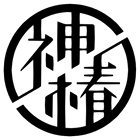
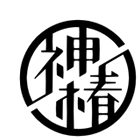
vwp

diff --git a/game/update.js b/game/update.js
@@ -2,7 +2,7 @@ window.noname_update={
 	version:'1.9.101.77',
 	update:'1.9.100.113.6',
 	changeLog:[
-		'101.76小更新：新增角色可不Kafu（测试包）、海向晚（化鲸包），修复bug（比如阿喵喵的bug和Yomemi致命药剂无法弃牌bug）',
+		'101.77小更新：新增势力神椿、新增角色可不Kafu（测试包）、海向晚（化鲸包），修复bug（比如阿喵喵的bug和Yomemi致命药剂无法弃牌bug）',
 		'优化技能特性，斗地主奖池扩展（虹：阿喵喵、初心相羽初叶；杏：猫又小粥、初心大空昴；企：花谱、理芽；社：Menherachan、紫海由爱），继续完善了国战内容（增加野心家内容、神乐mea势力改为“野”，现在可以进入该模式测试了）',
 		'101.40大更新：《化鲸篇》追加扩展包，增加角色皇绊爱和皇兔田佩克拉（emperor包），张京华、冰糖和真白花音（小箱），AS全员补全，斗地主增加智斗三国模式，修复bug',
 		'在菜单-其他-帮助里，增加“FAQ”栏',
@@ -27,6 +27,7 @@ window.noname_update={
 		// 'card/sp.js',
 		// 'card/standard.js',
 		'card/guozhan.js',
+		'image/card/group_vwp.png',
 		//'card/remark.js',
 		// 'image/splash/boss.jpg',
 		// 'image/splash/brawl.jpg',
